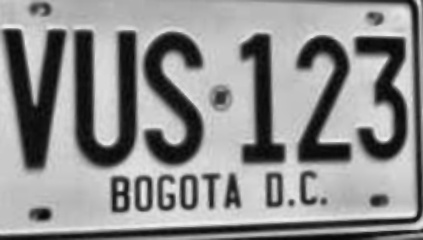
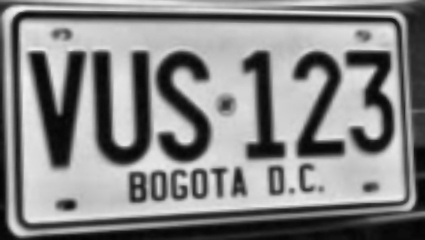
Improved the detection

diff --git a/Project/utils.py b/Project/utils.py
@@ -30,7 +30,6 @@ def create_mask(bgr, hmin, hmax, smin, smax, vmin, vmax):
 # find_largest_contour: busca contornos y devuelve el mayor y su caja
 
 def find_largest_contour(mask, kernel):
-    # cerrar small gaps antes de buscar contornos
     print("[FNC find_largest_contour] Aplicando CLOSE adicional y buscando contornos")
     mask_closed = cv2.morphologyEx(mask, cv2.MORPH_CLOSE, kernel, iterations=2)
     contours, _ = cv2.findContours(mask_closed, cv2.RETR_EXTERNAL, cv2.CHAIN_APPROX_SIMPLE)
@@ -43,12 +42,38 @@ def find_largest_contour(mask, kernel):
     area = cv2.contourArea(cnt)
     print(f"[FNC find_largest_contour] Contorno mayor encontrado. Area = {int(area)}")
 
+    # calcular caja minima
     rect = cv2.minAreaRect(cnt)
     box = cv2.boxPoints(rect).astype(np.float32)
-    print("[FNC find_largest_contour] Caja minima calculada")
+
+    w, h = rect[1]
+    aspect = max(w, h) / (min(w, h) + 1e-5)
+
+    if aspect > 4.0 or aspect < 1.5:
+        # fallback: boundingRect
+        x, y, bw, bh = cv2.boundingRect(cnt)
+        box = np.array([
+            [x, y],
+            [x+bw, y],
+            [x+bw, y+bh],
+            [x, y+bh]
+        ], dtype=np.float32)
+        print(f"[FNC find_largest_contour] Aspecto raro ({aspect:.2f}). Usando boundingRect.")
+    else:
+        print(f"[FNC find_largest_contour] Aspecto aceptable ({aspect:.2f}). Usando minAreaRect.")
 
     return cnt, box
+
     
+def expand_box(src_points, expand_px=5):
+    # src_points: array de 4 puntos (tl, tr, br, bl)
+    # expandimos cada punto hacia afuera
+    expanded = src_points.copy()
+    expanded[0][0] -= expand_px; expanded[0][1] -= expand_px  # tl
+    expanded[1][0] += expand_px; expanded[1][1] -= expand_px  # tr
+    expanded[2][0] += expand_px; expanded[2][1] += expand_px  # br
+    expanded[3][0] -= expand_px; expanded[3][1] += expand_px  # bl
+    return expanded
     
 # get_warp_from_box: ordena puntos, calcula homografia y genera warp
 def get_warp_from_box(box, image, target_h=240, min_w=120):
@@ -61,6 +86,7 @@ def get_warp_from_box(box, image, target_h=240, min_w=120):
     tr = box[np.argmin(diff)]
     bl = box[np.argmax(diff)]
     src = np.array([tl, tr, br, bl], dtype=np.float32)
+    src = expand_box(src, expand_px=8)  # anade margen de 8 pixeles
     print("[FNC get_warp_from_box] Puntos fuente ordenados:", src.tolist())
 
     # calcular ancho y alto del rectificado

diff --git a/Project/ocr_clean.py b/Project/ocr_clean.py
@@ -2,36 +2,35 @@
 import re
 
 def clean_ocr_text(raw):
-    """
-    Entrada: texto crudo del OCR (ej: 'JUNI 540, BOGOTA DC')
-    Salida: (plate_fixed, rest_text)
-      - plate_fixed: 'ABC 123'
-      - rest_text: lo que sigue (ej: 'BOGOTA DC')
-    """
     if not raw or not isinstance(raw, str):
         return '', ''
 
     s = raw.strip().upper()
-    # conservar solo letras, numeros, espacios y comas
     s = re.sub(r'[^A-Z0-9 ,]', '', s)
 
-    # separar por coma para aislar ciudad
+    # separar por coma primero
     parts = [p.strip() for p in s.split(',') if p.strip()]
     plate_part = parts[0] if parts else s
-    rest_text = parts[1] if len(parts) > 1 else ''
+    rest_text = ', '.join(parts[1:]) if len(parts) > 1 else ''
 
-    # extraer letras y numeros
+    # buscar letras y numeros
     letters = re.findall(r'[A-Z]', plate_part)
     digits = re.findall(r'[0-9]', plate_part)
 
-    # recortar a maximo 3
     letters = letters[:3]
     digits = digits[:3]
 
     if len(letters) == 3 and len(digits) == 3:
         plate_fixed = f"{''.join(letters)} {''.join(digits)}"
     else:
-        # fallback: devolver lo que haya
         plate_fixed = plate_part
 
+    # si no hay coma, tomar lo que sigue como ciudad
+    if not rest_text:
+        # todo lo que quede despues de los digitos
+        m = re.search(r'[0-9]{3}(.*)', s)
+        if m:
+            rest_text = m.group(1).strip().lstrip(',').strip()
+
     return plate_fixed, rest_text
+

diff --git a/Project/main.py b/Project/main.py
@@ -17,6 +17,14 @@ HMIN, HMAX = 17, 27
 SMIN, SMAX = 160, 255
 VMIN, VMAX = 190, 255
 
+def resize_image(img, target_w=350):
+    h, w = img.shape[:2]
+    scale = target_w / float(w)
+    new_h = int(h * scale)
+    resized = cv2.resize(img, (target_w, new_h), interpolation=cv2.INTER_AREA)
+    #resized = cv2.resize(img, (350, 250), interpolation=cv2.INTER_CUBIC)
+    return resized
+
 # -------------------- Main y ejecucion --------------------
 def main(folder="data/placas"):
     print("[MAIN] Inicio del flujo en carpeta:", folder)
@@ -33,9 +41,11 @@ def main(folder="data/placas"):
         print("\n[MAIN] Procesando:", path)
 
         bgr = cv2.imread(path)
+                
         if bgr is None:
             print("[MAIN] [ERROR] No se pudo leer la imagen:", path)
             continue
+        bgr = resize_image(bgr, target_w = 500)
 
         # STEP 03: mascara
         mask, kernel = create_mask(bgr, HMIN, HMAX, SMIN, SMAX, VMIN, VMAX)
@@ -66,6 +76,7 @@ def main(folder="data/placas"):
 
         # limpieza postprocesado
         plate_fixed, city = clean_ocr_text(ocr_result)
+        print("[MAIN] Resultado OLLAMA:", ocr_result)
         print("[MAIN] Resultado OCR limpio:", plate_fixed, ",", city)
 
     print("\n[MAIN] Flujo completado para carpeta:", folder)
